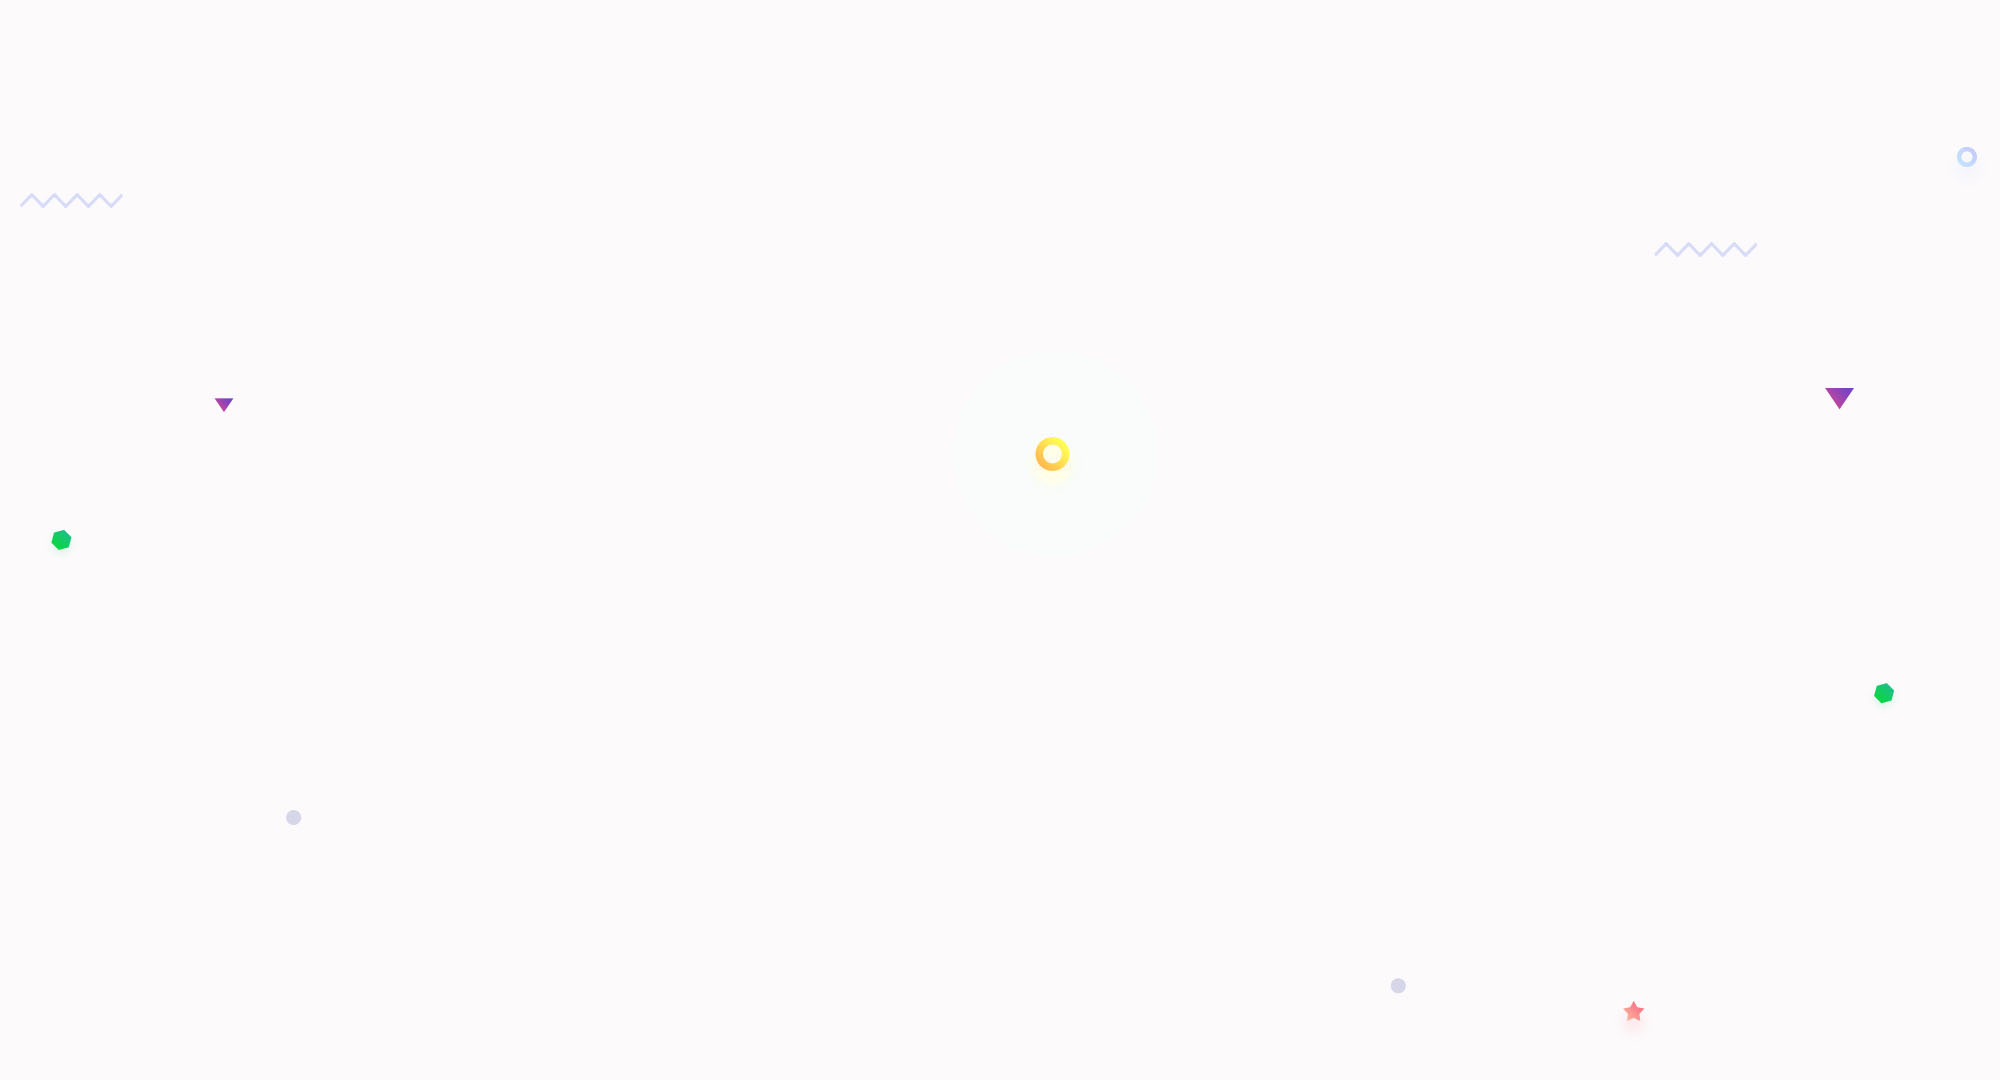
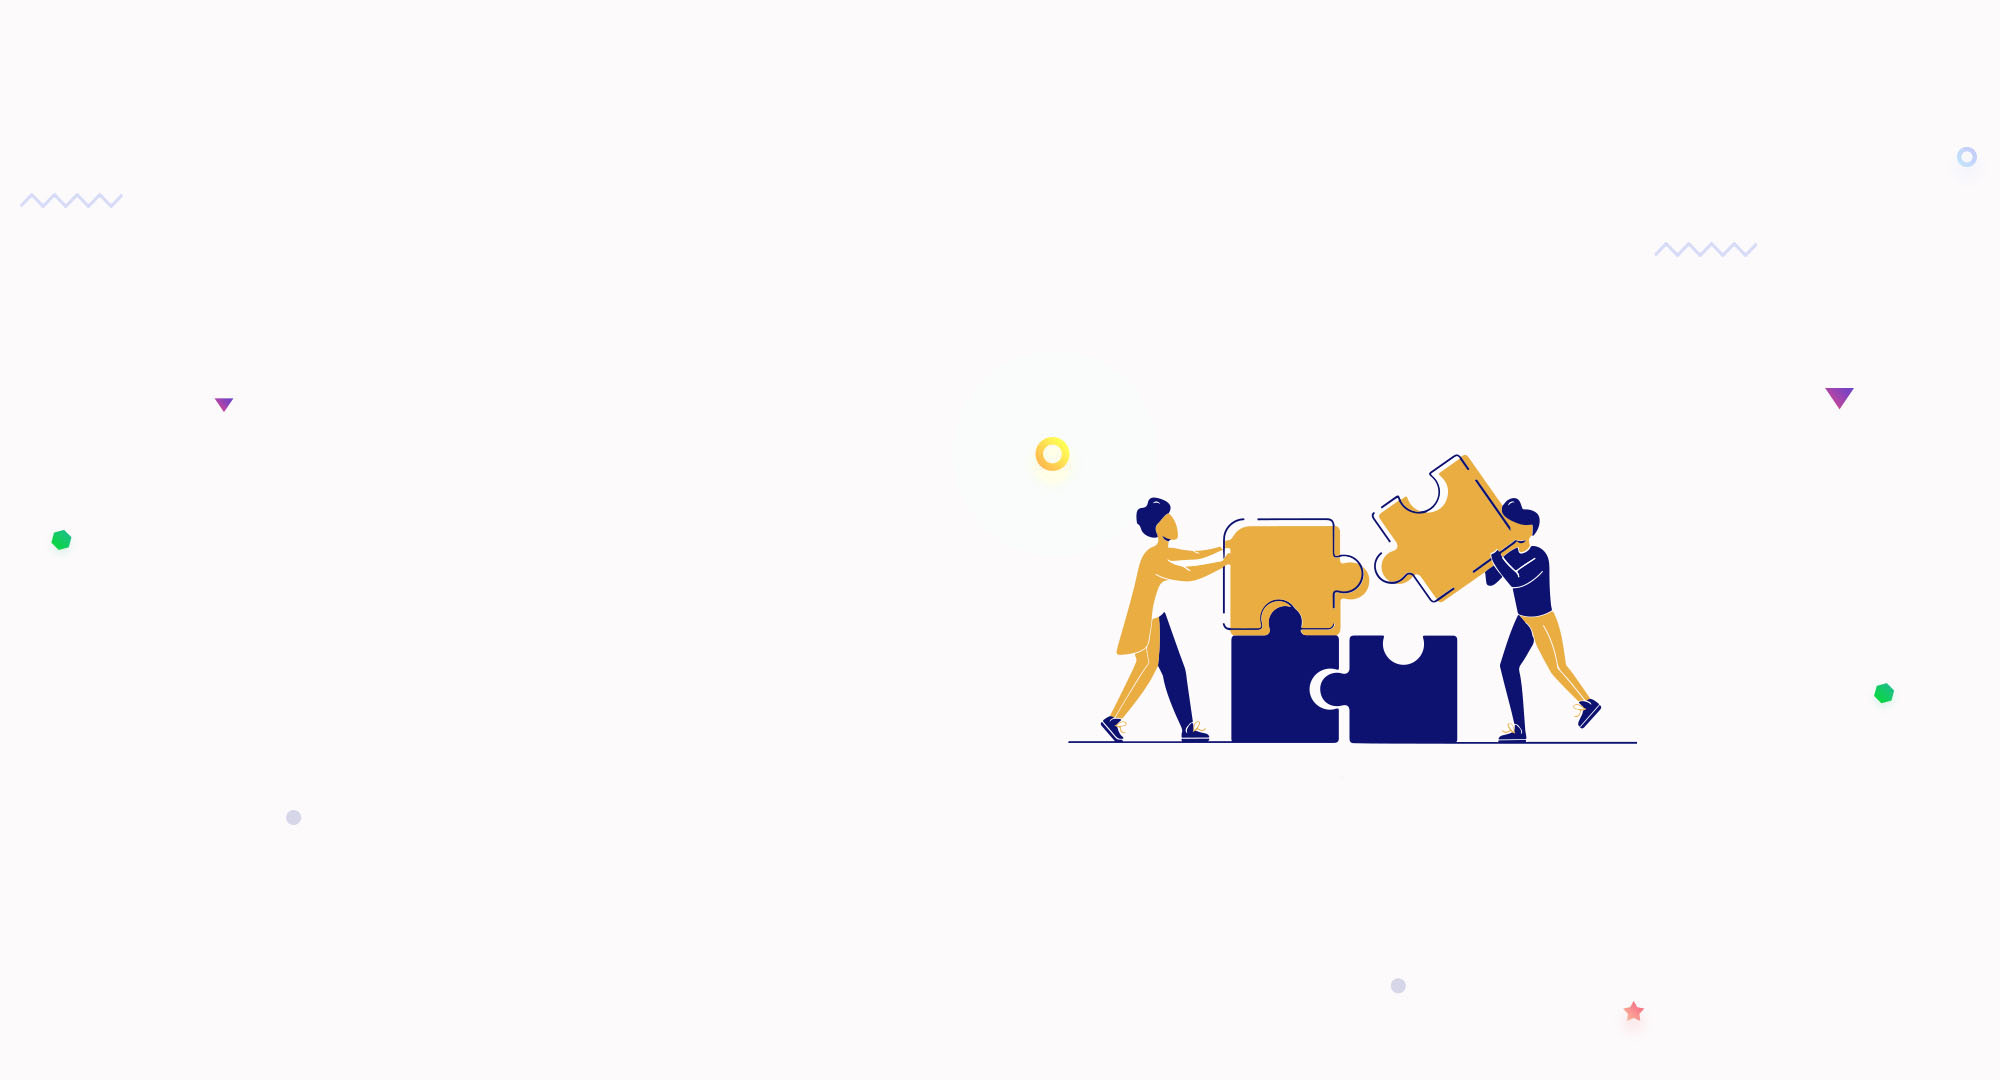
[fix]-> Acomode la foto no movi nada xd

Changed region(s): [[0.527, 0.4278, 0.806, 0.7028]]

diff --git a/css/styles_User.css b/css/styles_User.css
@@ -276,9 +276,10 @@ MANERA VISUAL */
       "footer footer" 100px /
        200px   auto;
   }
+
 }
 
-/* Diseo destock*/
+/* Diseno destock*/
 @media (min-width: 900px){
   .grid-container{
       grid-template: 
@@ -288,6 +289,7 @@ MANERA VISUAL */
        200px   auto     200px ;
    
   }
+
 
 
 .header {
@@ -418,7 +420,7 @@ MANERA VISUAL */
  .main{
   display: grid;
   gap: 10px;
-  grid-template-columns: repeat(10,auto) ;
+  grid-template-columns: repeat(5,auto) ;
   grid-template-rows: repeat(3,1fr);
  }
 
@@ -435,12 +437,6 @@ MANERA VISUAL */
 .tabla{
   grid-column: 2/5;
   /* background-color: tomato; */
-  grid-row: 1/4;
-}
-
-.img{
-  grid-column: 5/11;
-  /* background-color:turquoise; */
   grid-row: 1/4;
 }
 
@@ -478,7 +474,7 @@ select {
   margin: 0 auto;
   margin-top: 15px;
   
-}
+} 
 .botones .btn{
   display: inline-block;
   border: 1px solid #030973;
@@ -512,109 +508,3 @@ select {
 
 }
 }
-/* 
-.btn {
-  display: inline-block;
-  border: 1px solid #030973;
-  border-radius: 9px;
-  background-color: #030973;
-  color: #ffffff;
-  font-weight: 600;
-  font-size: 0.875rem;
-  line-height: 0;
-  text-decoration: none;
-  transition: all 0.2s;
-  margin: 0px 0px 16px;
-  width: 227px;
-  padding: 9%;
-  box-shadow: 0 3px 6px 0 rgba(0, 0, 0, 0.05);
-}
-.btn:hover {
-background-color: transparent;
-color: #030973; 
-text-decoration: none;
-} */
-/* 
-  
-.saldo {
-  background-color: #030973;
-  width: 227px;
-  height: 100px;
-  margin: 0 1% 1% 17px;
-  top: 40%;
-  border-radius: 15px;
-  color: white;
-  text-align: center;
-  padding-top: 18px;
-  position: absolute;
-  box-shadow: 10px 10px 15px rgba(0,0,0,0.05);
-}
-.saldo p{
-  margin: 8px 10px;
-}
-select {
-  background: transparent;
-  border: none;
-  font-size: 14px;
-  height: 30px;
-  padding: 5px;
-  width: 227px;
-  background-color: rgb(230, 230, 230);
-  border-radius: 6px;
-  text-align: center;
-  box-shadow: 0 3px 6px 0 rgba(0, 0, 0, 0.05);
-}
-
-.cuenta{
-  position: absolute;
-  margin: 0 1% 1%;
-  width: 227px;
-  
-}
-
-.btns{
-  top: 54%;
-  position: absolute;
-  margin: 0 1% 1%;
-  width: 227px;
-
-}
-
-.btns .btn {
-  display: inline-block;
-  border: 1px solid #030973;
-  border-radius: 9px;
-  background-color: #030973;
-  color: #ffffff;
-  font-weight: 600;
-  font-size: 0.875rem;
-  line-height: 0;
-  text-decoration: none;
-  transition: all 0.2s;
-  margin: 0px 1px 16px;
-  width: 227px;
-  padding: 9%;
-  box-shadow: 0 3px 6px 0 rgba(0, 0, 0, 0.05);
-}
-.btn:hover {
-background-color: transparent;
-color: #030973; 
-text-decoration: none;
-}
-
-.tab {
-  padding: 0 5% 7%  8%;
-  position: relative;
-  top: 2%;
-  width: 41%;
-  margin: 4px 15%;
-}
-img{
-  position: relative;
-  width: 600px;
-      margin: 0% 55%;
-      top: -38%;
-
-
-}
- */

diff --git a/user_dashboard.php b/user_dashboard.php
@@ -20,6 +20,7 @@
 	<script src="https://ajax.googleapis.com/ajax/libs/jquery/3.5.1/jquery.min.js"></script>
   </head>	
   <body class="grid-container">
+  
     <header class="header"> 
     <!-- Nav -->
     <nav id="navbarExample" class="navbar navbar-expand-lg fixed-top navbar-light" aria-label="Main navigation">
@@ -43,7 +44,6 @@
 
     <div class="titulo">
       <h1 id="greeting">¡Bienvenido!</h1>
-		
       <h6>¡Hola! desde aquí puedes realizar tus operaciones</h6>  
     </div>
   </header>
@@ -126,11 +126,12 @@
 
 
       </dv>
-      <div class="img">
+      <!-- <div class="img-g">
         <img src="images/people.svg" alt="">
 
-      </div>
+      </div> -->
 	</article> 
+
   </body>
 	
 	<script>
@@ -143,12 +144,9 @@
 			}
 			
 			$('#greeting').load('lib_php/greeting.php');
-			
-			
-			
+					
 		};
 		
-
 		$('#combo_cuenta').change(function() {
 			$.ajax({
 				url: "lib_php/getAccountData.php",
